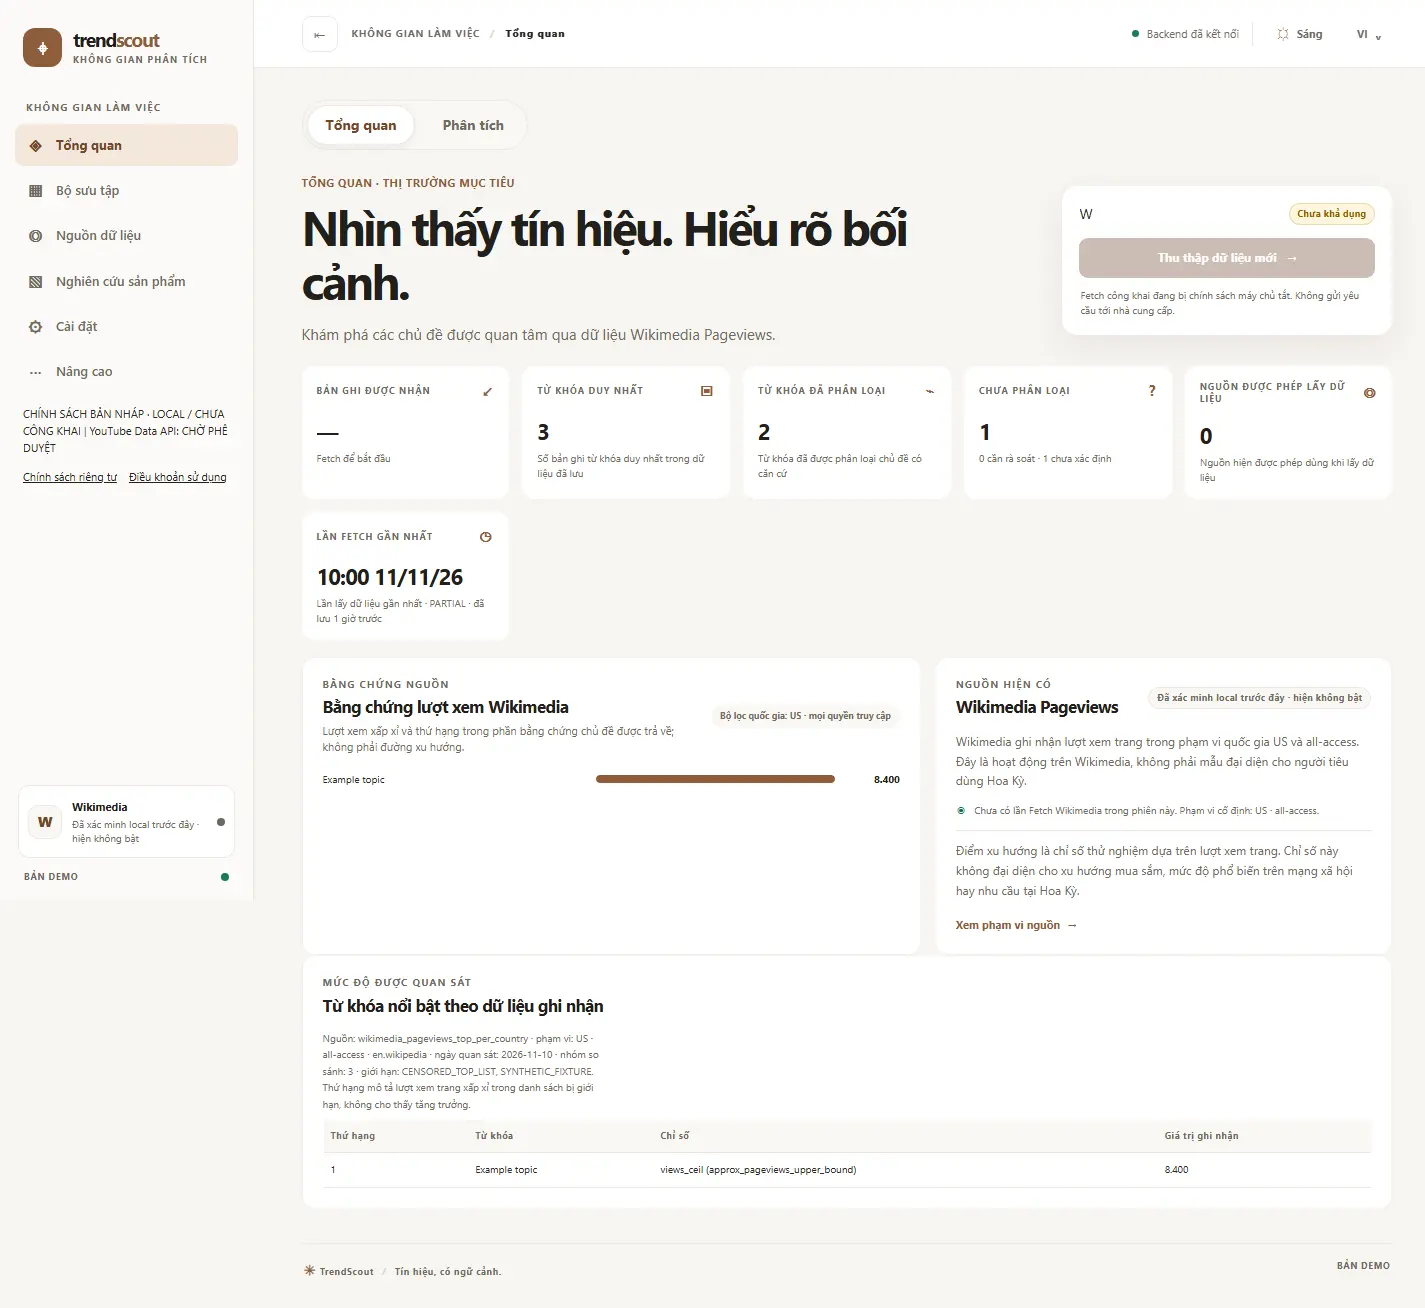
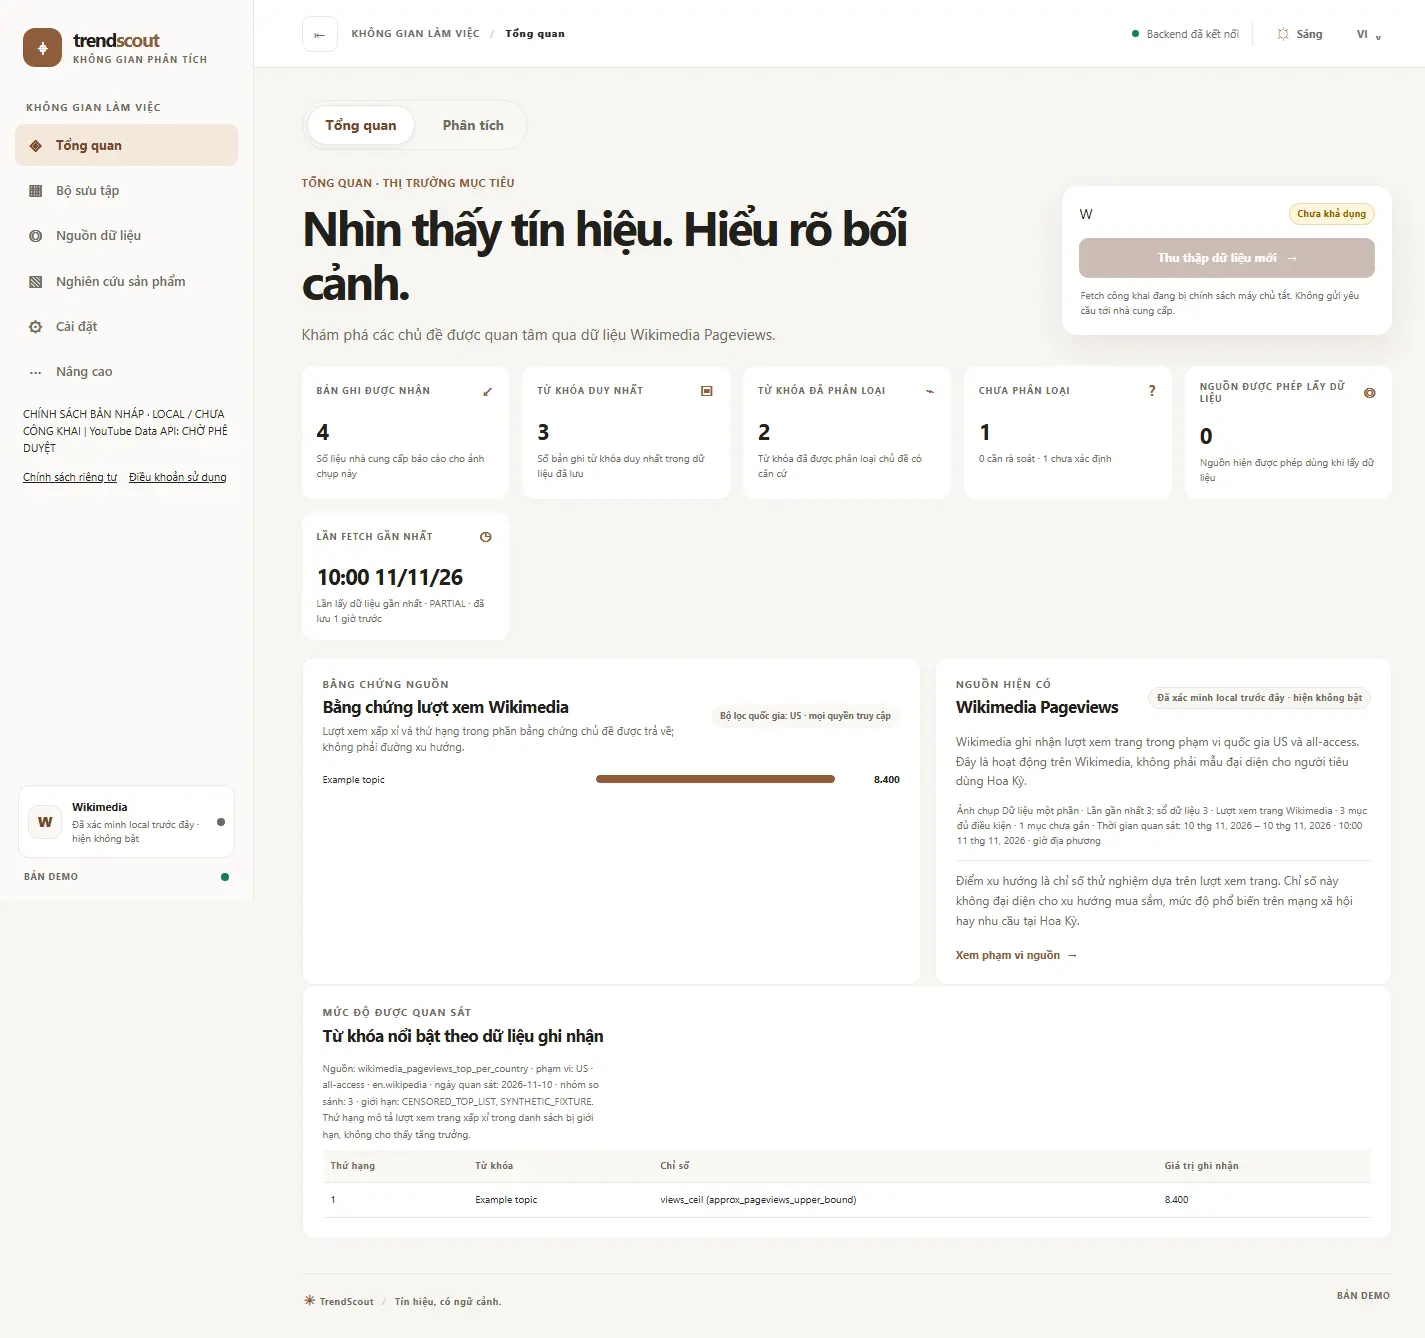
test(ui): align Collection evidence and screenshots

diff --git a/Backend/tests/browser_d2_visual_offline.py b/Backend/tests/browser_d2_visual_offline.py
@@ -34,13 +34,24 @@ window.fetch=(path,options={})=>{
   if(value==='/api/v1/algorithms')return Promise.resolve(new Response(JSON.stringify({evaluation_status:'NOT_YET_EVALUATED',algorithms:[{algorithm_id:'observed-volume-rank',version:'v3',name:'Observed volume rank'}]}),{status:200}));
   if(value==='/api/v1/algorithms/results')return Promise.resolve(new Response(JSON.stringify({summary:[],items:[]}),{status:200}));
   if(value==='/api/v1/collections')return Promise.resolve(new Response(JSON.stringify({items:[
-    {id:'fixture-parent',name:'Home & Living',parent_id:null,membership_count:8,direct_membership_count:0,subtree_unique_keyword_count:8,created_by:'AI',auto_match:true},
-    {id:'fixture-child',name:'Smart Home',parent_id:'fixture-parent',membership_count:8,direct_membership_count:8,subtree_unique_keyword_count:8,created_by:'AI',auto_match:true}
-  ],suggestions:[],mode:'SUGGEST_ONLY',summary:{eligible_keywords:8,assigned_keywords:8,unclassified_keywords:0,excluded_keywords:0,classified_keywords:8,ambiguous_keywords:0,unknown_keywords:0,ineligible_topic_keywords:0,ai_assigned_keywords:8,manually_managed_keywords:0,ai_created_collections:2}}),{status:200}));
+    {id:'fixture-parent',name:'Home & Living',parent_id:null,membership_count:2,direct_membership_count:0,subtree_unique_keyword_count:2,created_by:'AI',auto_match:true},
+    {id:'fixture-child',name:'Smart Home',parent_id:'fixture-parent',membership_count:2,direct_membership_count:2,subtree_unique_keyword_count:2,created_by:'AI',auto_match:true}
+  ],suggestions:[],mode:'SUGGEST_ONLY',summary:{eligible_keywords:3,assigned_keywords:2,unclassified_keywords:1,excluded_keywords:0,classified_keywords:2,ambiguous_keywords:0,unknown_keywords:1,ineligible_topic_keywords:0,ai_assigned_keywords:2,manually_managed_keywords:0,ai_created_collections:2}}),{status:200}));
   if(value==='/api/v1/collections/inbox')return Promise.resolve(new Response(JSON.stringify({items:[],total:0}),{status:200}));
   if(value==='/api/v1/research')return Promise.resolve(new Response(JSON.stringify({items:[],total:0}),{status:200}));
   if(value==='/api/v1/runs/history')return Promise.resolve(new Response(JSON.stringify({items:[{fetch_id:'e'.repeat(32),run_at:'2026-11-11T03:00:00Z',run_type:'FETCH',sources:['wikimedia_pageviews_top_per_country'],status:'PARTIAL',received_record_count:4,retained_keyword_count:3,rejected_record_count:1,mode:'SYNTHETIC',error_code:'SOURCE_PARTIAL',stage:'DONE',quality_flags:['SYNTHETIC_FIXTURE']}],total:1,next_offset:null}),{status:200}));
-  if(value==='/api/v1/datasets/latest/keywords')return Promise.resolve(new Response(JSON.stringify({items:[],total:0,next_offset:null}),{status:200}));
+  if(value==='/api/v1/datasets/latest/keywords'){
+    const keywords=[
+      {id:'c'.repeat(64),keyword:'Kitchen organizer',source:'wikimedia_pageviews_top_per_country',observed_at:'2026-11-10',eligible:1,classification_status:'CLASSIFIED',memberships:[{id:'fixture-child',name:'Smart Home',origin:'LOCAL_AI'}],evidence:{views_ceil:8400}},
+      {id:'d'.repeat(64),keyword:'Home energy monitor',source:'wikimedia_pageviews_top_per_country',observed_at:'2026-11-10',eligible:1,classification_status:'CLASSIFIED',memberships:[{id:'fixture-child',name:'Smart Home',origin:'LOCAL_AI'}],evidence:{views_ceil:4200}},
+      {id:'e'.repeat(64),keyword:'Compact apartment storage',source:'wikimedia_pageviews_top_per_country',observed_at:'2026-11-10',eligible:1,classification_status:'UNKNOWN',memberships:[],evidence:{views_ceil:2100}}
+    ];
+    const params=new URLSearchParams(String(path).split('?')[1]||'');
+    const collectionIds=params.getAll('collection_ids');
+    const query=(params.get('q')||'').toLocaleLowerCase();
+    const matching=keywords.filter(item=>(!collectionIds.length||item.memberships.some(m=>collectionIds.includes(m.id)))&&item.keyword.toLocaleLowerCase().includes(query));
+    return Promise.resolve(new Response(JSON.stringify({items:matching,total:matching.length,next_offset:null}),{status:200}));
+  }
   if(value==='/api/runs/aaaaaaaaaaaaaaaaaaaaaaaaaaaaaaaa')return Promise.resolve(new Response(JSON.stringify({
     run_id:'aaaaaaaaaaaaaaaaaaaaaaaaaaaaaaaa',status:'COMPLETED',keyword_count:124,
     scored_count:28,data_date:'2026-11-10',mode:'synthetic',fetched_at:'2026-11-11T03:00:00Z',
@@ -281,9 +292,12 @@ window.waitFor=async function(p){for(let n=0;n<100;n++){if(p())return true;await
                         if drawer_left < 0:
                             geometry = evaluate("JSON.stringify({innerWidth,scrollX,open:document.querySelector('#workbench-sidebar')?.className,expanded:document.querySelector('#workbench-filter-toggle')?.getAttribute('aria-expanded'),left:document.querySelector('#workbench-sidebar')?.getBoundingClientRect().left,transform:getComputedStyle(document.querySelector('#workbench-sidebar')).transform})")
                             raise RuntimeError(f"mobile Collection drawer starts outside the viewport at {drawer_left}px: {geometry}")
-                        count_ready = evaluate("waitFor(()=>document.querySelector('[data-collection-id=fixture-parent] .workbench-tree-count')?.textContent==='8')", await_promise=True)
+                        count_ready = evaluate("waitFor(()=>document.querySelector('[data-collection-id=fixture-parent] .workbench-tree-count')?.textContent==='2'&&document.querySelectorAll('#workbench-rows tr').length===3&&document.querySelector('#workbench-summary').textContent.includes('3')&&document.querySelector('#workbench-page-info').textContent.includes('3'))", await_promise=True)
                         if not count_ready:
-                            raise RuntimeError("collapsed Collection did not show saved descendant keywords")
+                            raise RuntimeError("Collection summary, child membership count, result rows and pagination total disagree")
+                        if not evaluate("document.querySelector('#workbench-filter-toggle')?.click();!document.querySelector('#workbench-sidebar').classList.contains('is-open')"):
+                            raise RuntimeError("mobile Collection drawer remained open before the screen capture")
+                        time.sleep(0.25)
                     capture(f"screen-{view}-{width}-vi-light.webp", width, configure=False)
 
             set_viewport(1280)

diff --git a/Documents/Reports/OVERNIGHT_G2_G7_FINAL_REPORT.md b/Documents/Reports/OVERNIGHT_G2_G7_FINAL_REPORT.md
@@ -90,7 +90,7 @@ The taxonomy retained stable IDs and added evidenced leaves for settlements, mon
 - Full backend suite from `Backend/`: **775 passed, 778 subtests passed; 16 Firestore emulator tests were blocked**. In this run the emulator host was not configured (`FIRESTORE_EMULATOR_HOST` unset), so those tests failed at safe target validation before connecting. The Firestore emulator integration path had previously been attempted with a temporary, checksum-verified Microsoft OpenJDK 21 and Firebase CLI 15.36.0 outside the repo and the official emulator on loopback; the guarded test then failed before client creation because `create_guarded_emulator_client` requires an isolated Linux network namespace and `/proc/net/*`. Native Windows has no `/proc`, and no WSL distribution or `bwrap` is available. The emulator was stopped; the safety guard was not bypassed, and no Firestore production endpoint was contacted.
 - Native Chrome offline workspace: passed at 320, 390, 768, 1024, 1440 and 1920 px for locale/theme persistence, all views, read-only API access and XSS handling. The Collection merge picker passed keyboard selection, review-step handoff and Escape dismissal in Vietnamese/English and light/dark in the isolated fixture. The mobile navigation drawer also passed open/focus/Escape/focus-return checks. No merge was committed and no Fetch occurred.
 - Fresh overview screenshots: 24 combinations at six widths, Vietnamese/English and light/dark are in `Documents/Reports/windows-evidence/overnight-g2-g7/`. Screenshots use an isolated synthetic browser fixture. Five earlier G2 evidence images are also retained in that directory.
-- Offline Chrome visual/workspace checks passed at **320, 390, 768, 1024, 1440 and 1920 px**. Overview evidence covers VI/EN and light/dark; fresh VI/light screenshots cover Analysis, Collections, Sources, Run History, Algorithms, Quality, Product Research and Settings at 390 and 1440 px. Run History and Analysis mobile tables show localized column names and do not cause document-level horizontal overflow. The collapsed Collection parent-count case is covered by an offline Chrome fixture with saved child keywords. The bilingual workspace fixture exercises Collection keyword search/pagination, create/edit/delete and bulk assignment, plus Product Research creation linked to a saved keyword and status update. Exactly those six fixture write requests are allowed; all other app requests stay GET-only, and no Fetch endpoint is called. Settings schedule creation uses a mocked operator-authenticated same-origin request; the mobile Settings screenshot shows the full schedule form and disabled state. The fixture verifies locale/theme persistence, reload on one viewport, XSS handling, Analysis charts, and localized system/storage status. The scheduler operator key is not saved to local or session storage and is cleared after submission. These are synthetic/offline fixtures, not provider Fetch or writes to the user's real database.
+- Offline Chrome visual/workspace checks passed at **320, 390, 768, 1024, 1440 and 1920 px**. Overview evidence covers VI/EN and light/dark; fresh VI/light screenshots cover Analysis, Collections, Sources, Run History, Algorithms, Quality, Product Research and Settings at 390 and 1440 px. Run History and Analysis mobile tables show localized column names and do not cause document-level horizontal overflow. Collection visual evidence now uses matching synthetic summary, membership and keyword-row data: 3 tracked, 2 placed, 1 unplaced, with all 3 rows and pagination shown; mobile captures close the filter drawer before capture. The bilingual workspace fixture exercises Collection keyword search/pagination, create/edit/delete and bulk assignment, plus Product Research creation linked to a saved keyword and status update. Exactly those six fixture write requests are allowed; all other app requests stay GET-only, and no Fetch endpoint is called. Settings schedule creation uses a mocked operator-authenticated same-origin request; the mobile Settings screenshot shows the full schedule form and disabled state. The fixture verifies locale/theme persistence, reload on one viewport, XSS handling, Analysis charts, and localized system/storage status. The scheduler operator key is not saved to local or session storage and is cleared after submission. These are synthetic/offline fixtures, not provider Fetch or writes to the user's real database.
 - `node --check` passed for `Frontend/public/app.js` and `Frontend/public/modules/capabilities.js`; Python compilation passed for changed backend modules; `git diff --check` passed (Git emitted only line-ending normalization warnings).
 - Final focused checks: D2 dashboard contract + local-live guard tests **12 passed, 37 subtests passed**; offline D2 charts/scheduler, native Chrome Collection search/pagination/CRUD/bulk and Product Research create/status journeys at six widths, and keyboard/dialog 320/375px checks passed. The actual local LIVE Chrome count check showed **148 classified / 6 unclassified** after all requests settled. Complete backend suite excluding `emulator_tests/`: **775 passed, 778 subtests passed**. The unfiltered run produced the same 775 passes plus 16 emulator configuration failures because no emulator host was configured; no provider or production endpoint was contacted.
 - Reviewed Lucian UX/UI Prompt again on 2026-11-14. Its current introduction describes 200 interface elements and 200 site sections/motion elements, with light/dark support; the existing #031 custom listbox remains the closest fit for the Collection merge destination. It uses a checked current value, keyboard navigation and typeahead, which this project already adapted with the project's theme tokens and Collection data. The follow-up catalog review found no additional element that would improve the reported count, hierarchy, jump-to-top and merge-picker issues without adding unrelated motion or controls. No dependency was added. [Lucian UX/UI Prompt introduction](https://lucianlabs.dev/en/uxui-prompt/introducing/), [catalog entry #031](https://github.com/Seokwoooo/lucian-uxui-prompt/blob/main/api/v1/en/e/031.txt).
